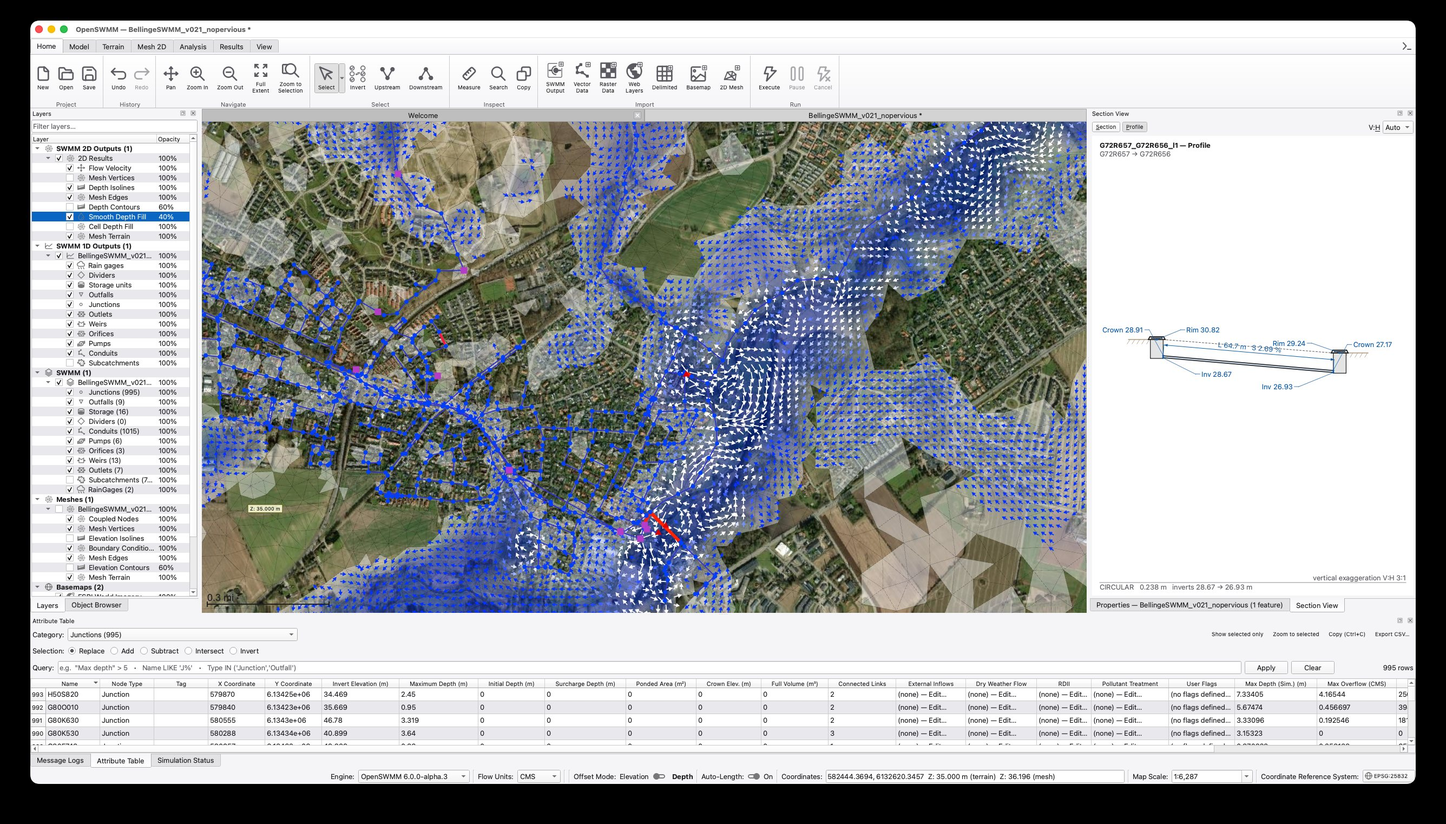
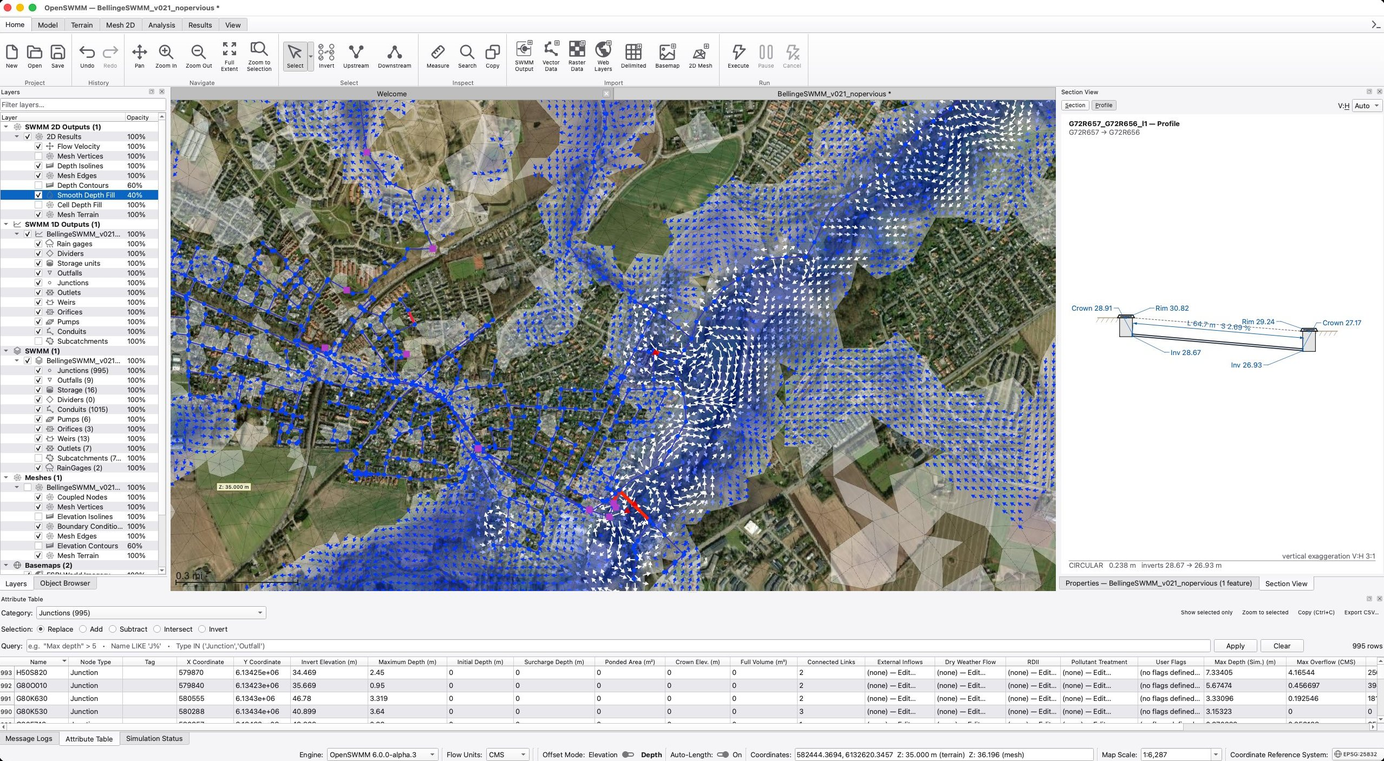
Clean up hero figure: crop black screenshot border, drop caption, frame with light mat and shadow

diff --git a/css/site.css b/css/site.css
@@ -124,14 +124,14 @@ img { max-width: 100%; height: auto; }
 }
 .hero .hero-grid { max-width: 1280px; }
 .hero-grid .hero-copy .lede { font-size: 1.02rem; margin-bottom: 24px; }
-.hero-media { margin: 0; min-width: 0; }
-.hero-media img {
-  display: block; width: 100%; border-radius: 12px;
-  border: 1px solid rgba(255, 255, 255, 0.28);
-  box-shadow: 0 26px 70px rgba(0, 20, 45, 0.45), 0 4px 16px rgba(0, 20, 45, 0.3);
+.hero-media {
+  margin: 0; min-width: 0;
+  background: rgba(255, 255, 255, 0.14);
+  padding: 12px; border-radius: 18px;
+  box-shadow: 0 28px 70px rgba(0, 20, 45, 0.4);
 }
-.hero-media figcaption {
-  margin-top: 12px; font-size: 0.84rem; color: #b9dcf5; line-height: 1.5;
+.hero-media img {
+  display: block; width: 100%; border-radius: 10px;
 }
 .hero-pill {
   background: rgba(255,255,255,0.10); border-color: rgba(255,255,255,0.35); color: #d6ebff;

diff --git a/index.html b/index.html
@@ -57,10 +57,6 @@
     <figure class="hero-media">
       <img src="img/screenshots/openswmm_gui_hero.jpg"
            alt="Open-Source SWMM 6.0 GUI showing a coupled 1D and 2D flood simulation over aerial imagery of the Bellinge catchment, with velocity vectors, a conduit profile view, and a live attribute table">
-      <figcaption>
-        Open-Source SWMM 6.0 (SWMM2D): coupled 1D/2D flood simulation with velocity vectors,
-        profile views, and live attribute queries.
-      </figcaption>
     </figure>
   </div>
   <svg class="hero-wave" viewBox="0 0 1440 70" xmlns="http://www.w3.org/2000/svg" preserveAspectRatio="none" aria-hidden="true">
